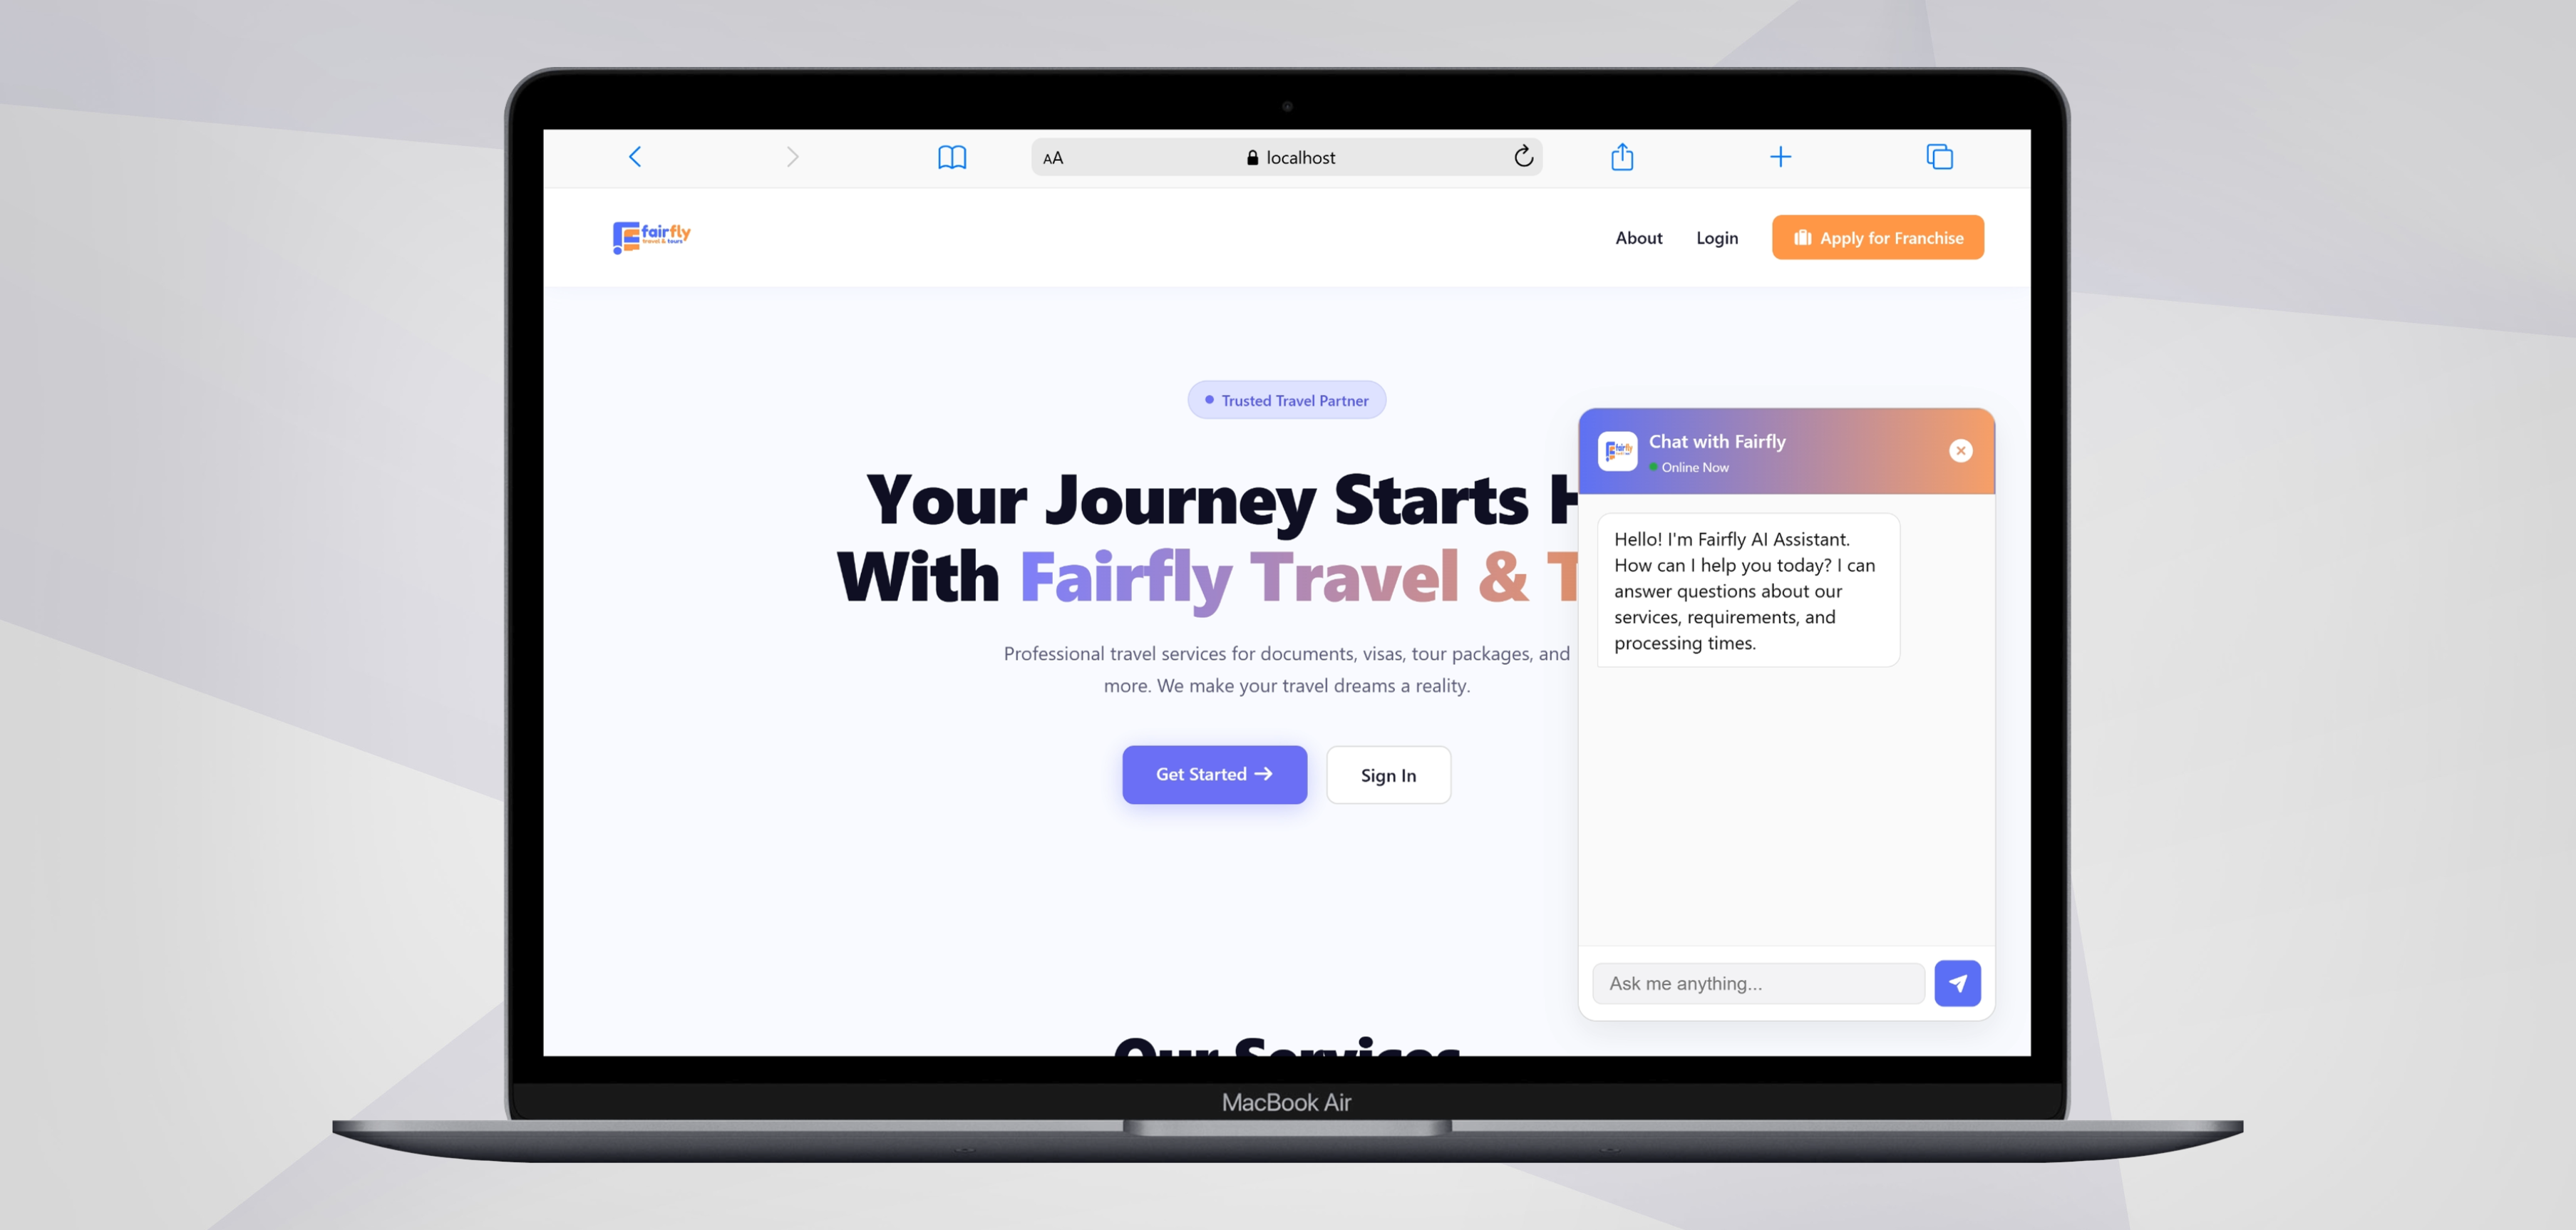
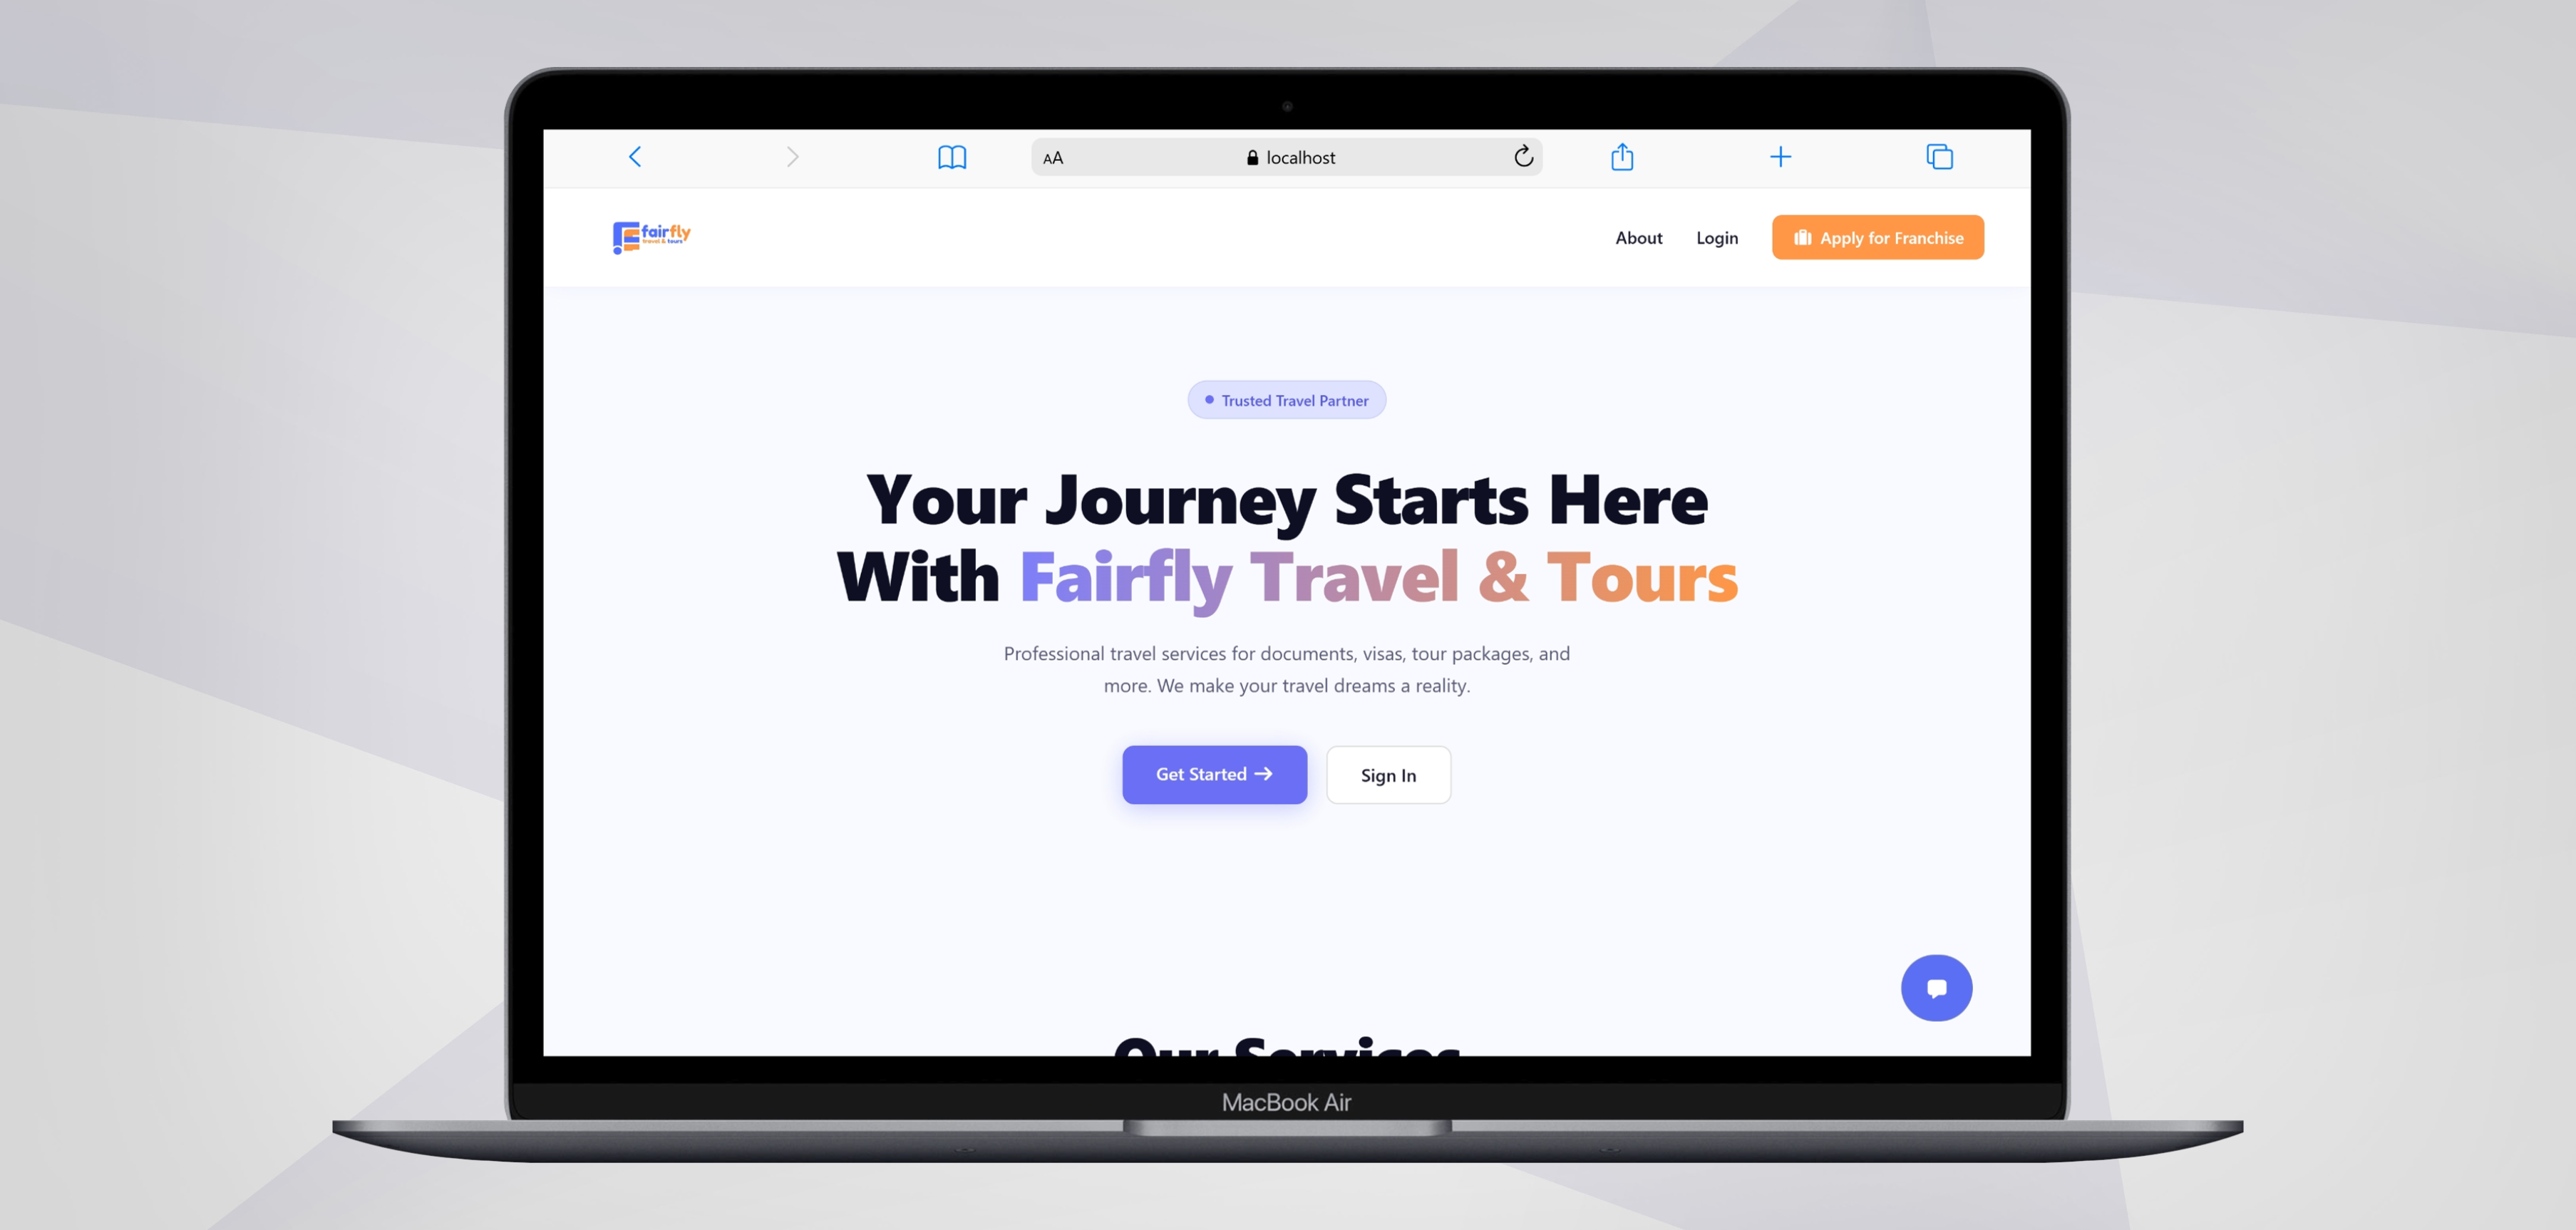
fix: update portfolio site

Changed region(s): [[0.5888, 0.3071, 0.7748, 0.5527], [0.7128, 0.7677, 0.7748, 0.8291], [0.6508, 0.7984, 0.6818, 0.8291]]

diff --git a/src/index.css b/src/index.css
@@ -57,6 +57,18 @@ button:hover{
 
 }
 
+::-webkit-scrollbar {
+    width: 10px;
+}
+::-webkit-scrollbar-track {
+    background-color: transparent; 
+}
+::-webkit-scrollbar-thumb {
+    background-color: rgba(0, 0, 0, 0.5); 
+    border-radius: 999px;
+}
+
+
 @media screen and (max-width: 768px) {
 
 

diff --git a/src/pages/LandingPage/LandingPage.jsx b/src/pages/LandingPage/LandingPage.jsx
@@ -54,6 +54,8 @@ export default function LandingPage() {
             images={[
             "fairfly1.png",
             "fairfly2.png",
+            "fairfly3.png",
+            "fairfly4.png",
           ]}
           title= "Fairfly Travel and Tours (2026)"
           desc = "A franchising portal-like system with AI chatbot for business inquiry. Fairfly is a capstone project that our team made for Fairfly travel agency to enhance the business scalability using realtime database of Firebase."